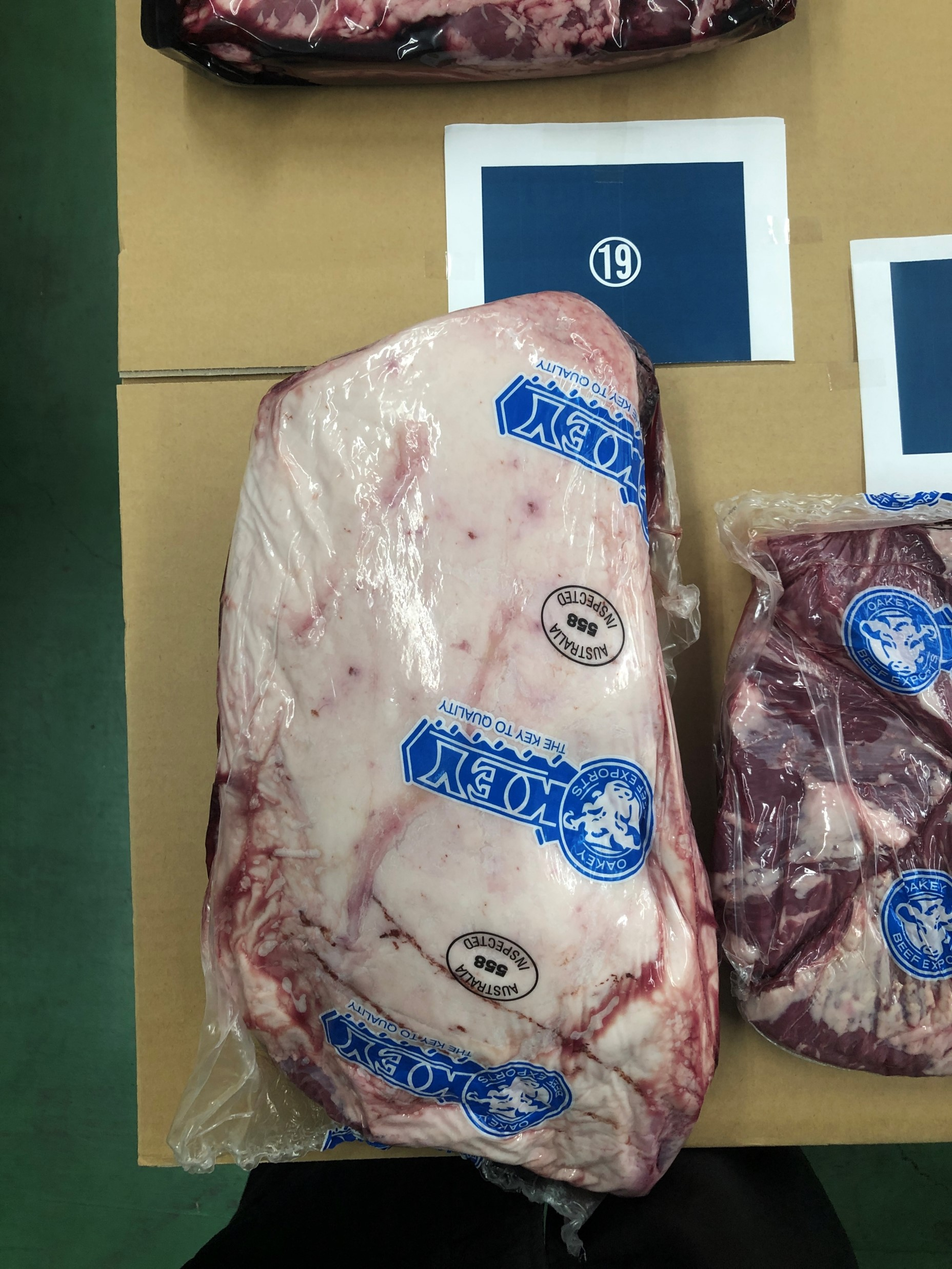
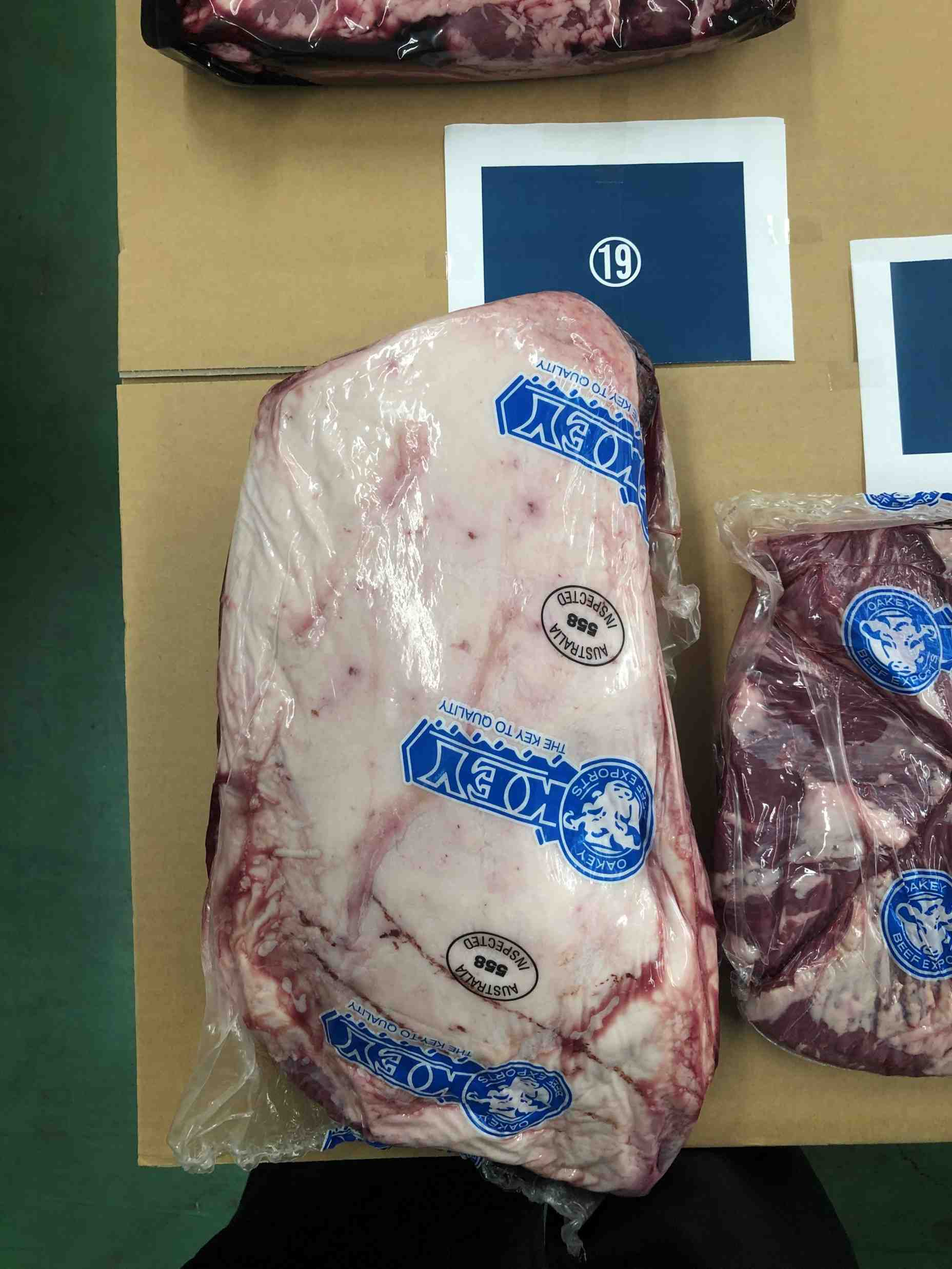
resized img

Changed region(s): [[0.5938, 0.3111, 0.6562, 0.3422]]

diff --git a/resizeIMG.py b/resizeIMG.py
@@ -1,0 +1,44 @@
+import os
+import argparse
+from PIL import Image, ImageFile
+from multiprocessing import Pool, cpu_count
+from tqdm import tqdm
+
+ImageFile.LOAD_TRUNCATED_IMAGES = True
+
+def resize_image(image_path, max_size_kb):
+    try:
+        img = Image.open(image_path)
+        img_format = img.format
+
+        if os.path.getsize(image_path) <= max_size_kb * 1024:
+            return
+
+        quality = 85
+        while os.path.getsize(image_path) > max_size_kb * 1024 and quality > 10:
+            img.save(image_path, format=img_format, quality=quality)
+            quality -= 5
+    except Exception as e:
+        print(f"Error processing {image_path}: {e}")
+
+def process_directory(directory, max_size_kb=200):
+    image_paths = []
+    for root, _, files in os.walk(directory):
+        for file in files:
+            if file.lower().endswith(('jpg', 'jpeg', 'png')):
+                image_path = os.path.join(root, file)
+                image_paths.append((image_path, max_size_kb))
+
+    with Pool(cpu_count()) as pool:
+        list(tqdm(pool.imap_unordered(resize_image_star, image_paths), total=len(image_paths)))
+
+def resize_image_star(args):
+    return resize_image(*args)
+
+if __name__ == "__main__":
+    parser = argparse.ArgumentParser(description="Resize images in a directory to be under a specified size while maintaining aspect ratio.")
+    parser.add_argument('directory', type=str, help='Path to the target directory')
+    parser.add_argument('--max_size_kb', type=int, default=200, help='Maximum size of the image in KB (default: 200KB)')
+
+    args = parser.parse_args()
+    process_directory(args.directory, args.max_size_kb)
